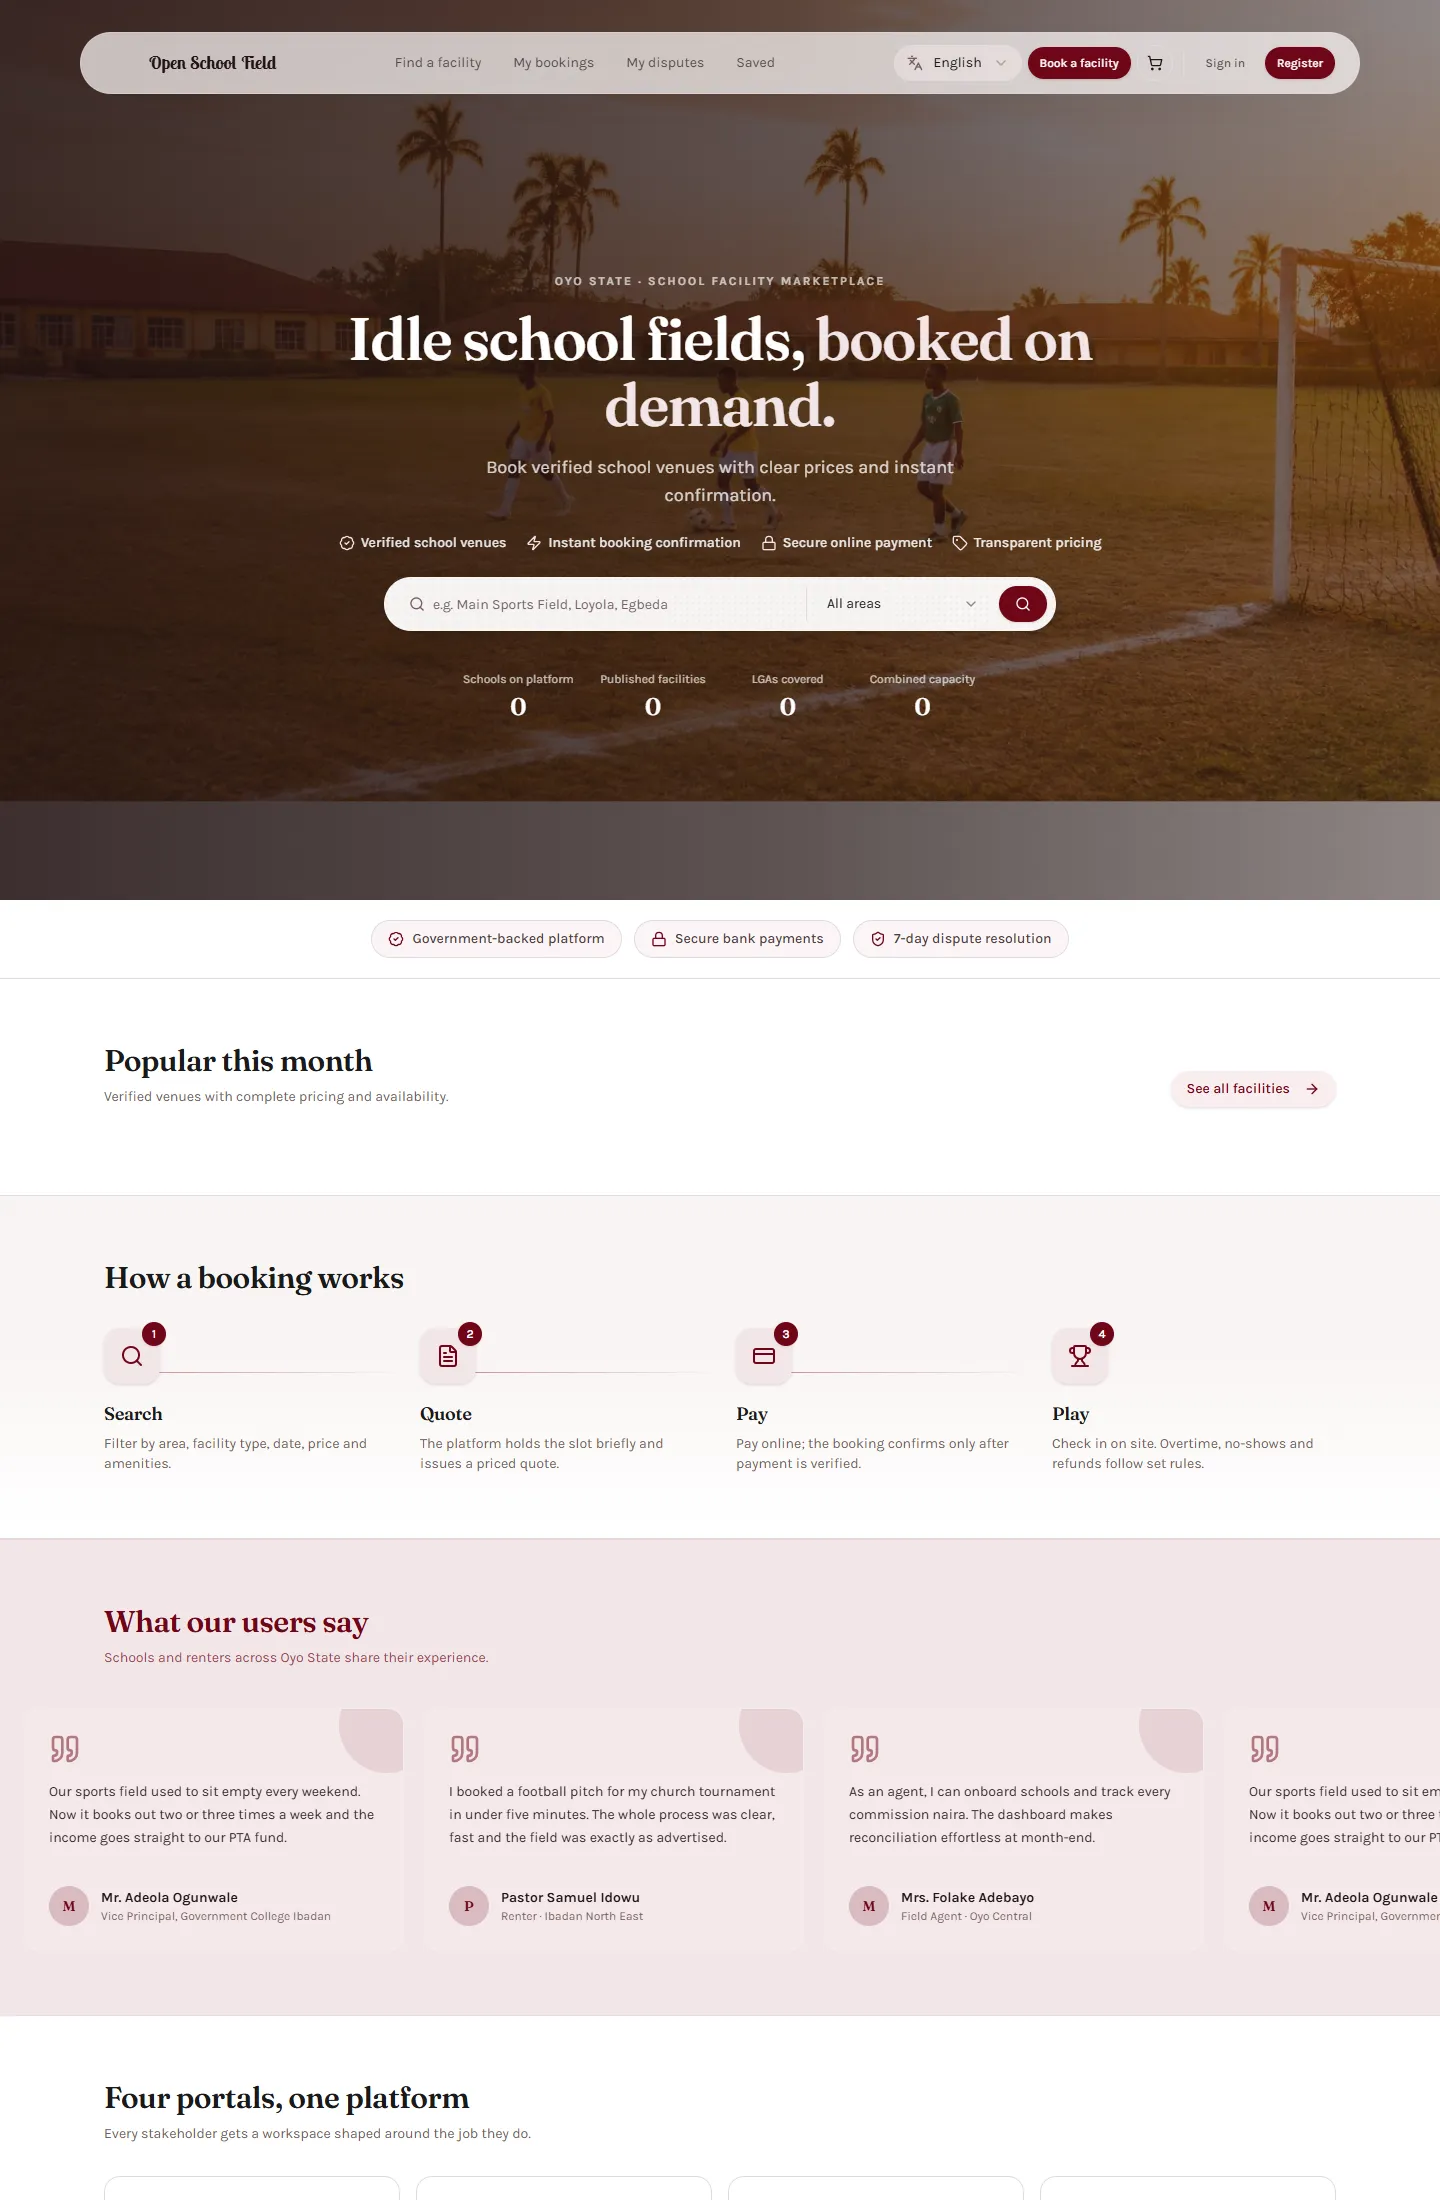
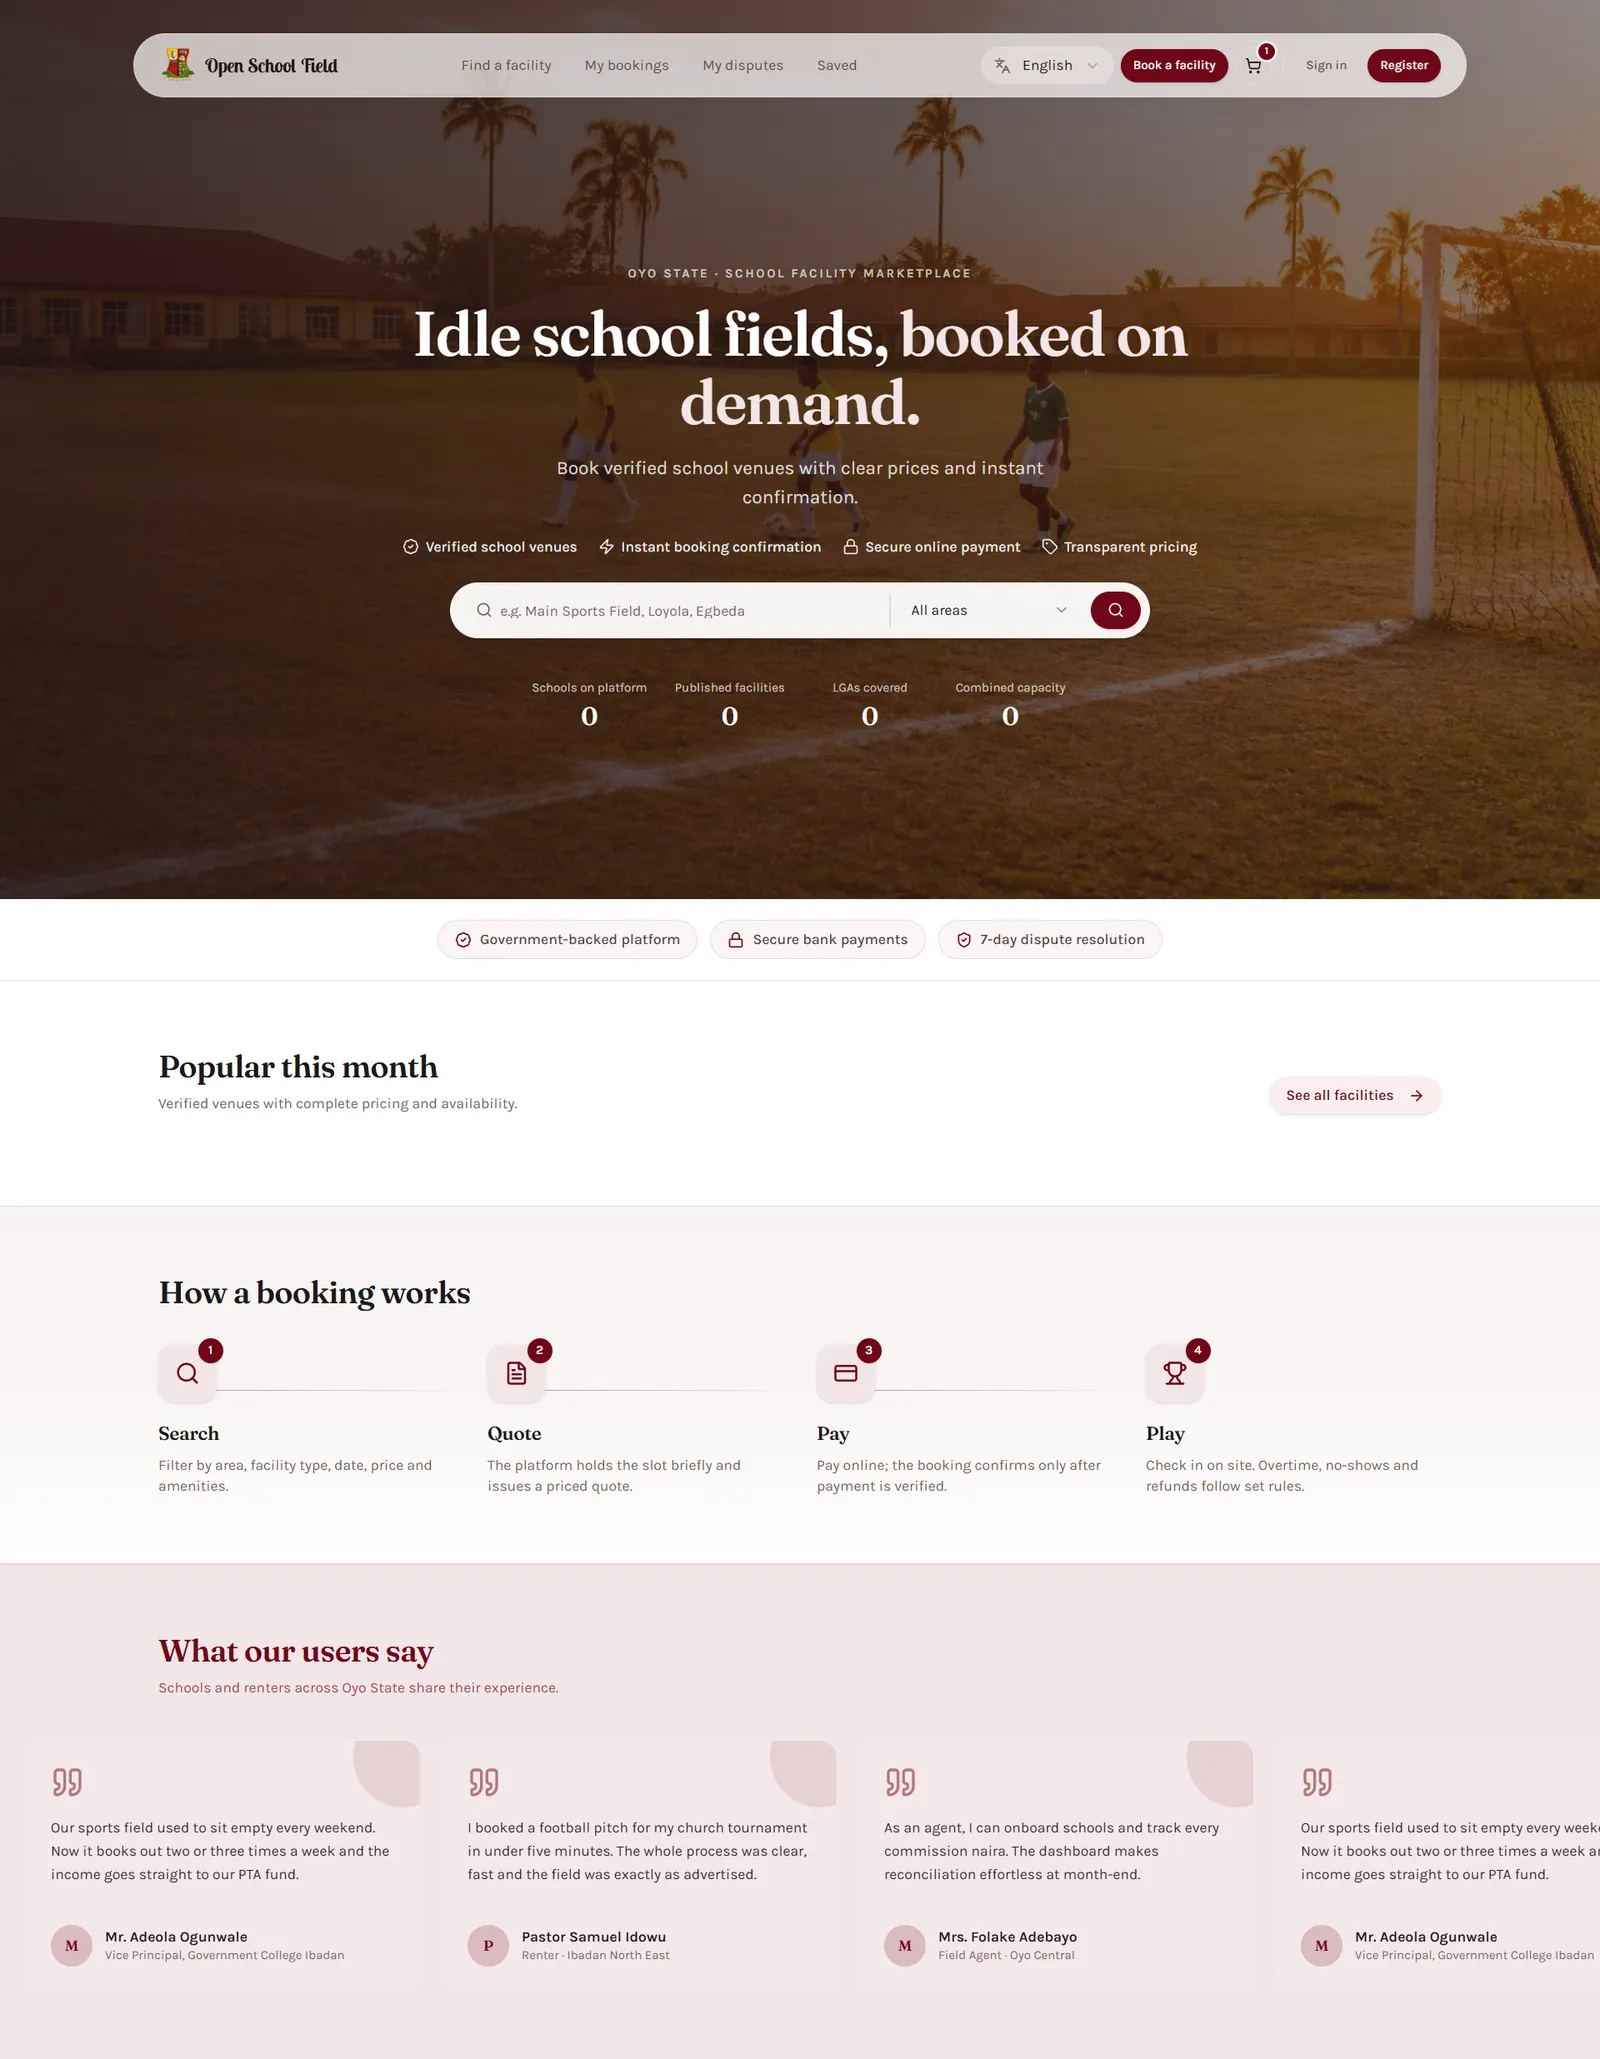
Smaller hero buttons and a new long Open School Field screenshot

diff --git a/src/styles.css b/src/styles.css
@@ -96,9 +96,9 @@
 @theme {
   --font-display: "Archivo Black", ui-sans-serif, system-ui, sans-serif;
   --font-sans:
-    "SF Pro Display Medium", "SF Pro Display Regular", "SF Pro Display",
-    "SF Pro Text", -apple-system, BlinkMacSystemFont, "Segoe UI Variable Display",
-    "Segoe UI", ui-sans-serif, system-ui, sans-serif;
+    "SF Pro Display Medium", "SF Pro Display Regular", "SF Pro Display", "SF Pro Text",
+    -apple-system, BlinkMacSystemFont, "Segoe UI Variable Display", "Segoe UI", ui-sans-serif,
+    system-ui, sans-serif;
   --font-mono: "JetBrains Mono", ui-monospace, monospace;
   --color-cream: #ffffff;
   --color-charcoal: oklch(0.27 0.008 60);
@@ -108,9 +108,9 @@
 
 :root {
   --sam-font-sans:
-    "SF Pro Display Medium", "SF Pro Display Regular", "SF Pro Display",
-    "SF Pro Text", -apple-system, BlinkMacSystemFont, "Segoe UI Variable Display",
-    "Segoe UI", ui-sans-serif, system-ui, sans-serif;
+    "SF Pro Display Medium", "SF Pro Display Regular", "SF Pro Display", "SF Pro Text",
+    -apple-system, BlinkMacSystemFont, "Segoe UI Variable Display", "Segoe UI", ui-sans-serif,
+    system-ui, sans-serif;
   --radius: 0.625rem;
   --background: #ffffff;
 
@@ -234,6 +234,14 @@
     color 180ms ease;
 }
 
+/* The hero's two buttons are a size smaller than the pill default. */
+.sam-action-row .sam-pill {
+  min-height: 36px;
+  gap: 0.4rem;
+  padding: 0.4rem 0.85rem;
+  font-size: 0.82rem;
+}
+
 .sam-pill:hover {
   transform: translateY(-1px);
 }
@@ -313,9 +321,9 @@
   background: white;
 }
 
-
 @keyframes sam-status-breathe {
-  0%, 100% {
+  0%,
+  100% {
     opacity: 0.28;
     transform: scale(1);
   }
@@ -408,7 +416,12 @@
   }
 
   /* Keep the two buttons side by side on phones (hero and the bottom call to action). */
-  .sam-action-row .sam-pill,
+  .sam-action-row .sam-pill {
+    min-height: 34px;
+    padding: 0.4rem 0.75rem;
+    font-size: 0.8rem;
+  }
+
   .sam-cta-row .sam-pill {
     gap: 0.4rem;
     padding: 0.5rem 0.85rem;
@@ -599,7 +612,6 @@
   }
 }
 
-
 @media (min-width: 1024px) and (max-height: 820px) {
   .sam-identity-panel {
     /* The panel never scrolls on its own: the wheel over it scrolls the page, as on samwrks.in. */
@@ -678,13 +690,7 @@
 .showcase-carousel {
   --showcase-gap: 1.25rem;
   overflow: hidden;
-  -webkit-mask-image: linear-gradient(
-    90deg,
-    transparent,
-    black 7%,
-    black 93%,
-    transparent
-  );
+  -webkit-mask-image: linear-gradient(90deg, transparent, black 7%, black 93%, transparent);
   mask-image: linear-gradient(90deg, transparent, black 7%, black 93%, transparent);
 }
 
@@ -733,7 +739,6 @@
   }
 }
 
-
 @media (min-width: 1024px) {
   .showcase-carousel__card {
     width: 46vw;
@@ -755,13 +760,7 @@
 .case-study-carousel {
   --gallery-gap: 1.25rem;
   overflow: hidden;
-  -webkit-mask-image: linear-gradient(
-    90deg,
-    transparent,
-    black 8%,
-    black 92%,
-    transparent
-  );
+  -webkit-mask-image: linear-gradient(90deg, transparent, black 8%, black 92%, transparent);
   mask-image: linear-gradient(90deg, transparent, black 8%, black 92%, transparent);
 }
 
@@ -809,7 +808,6 @@
   }
 }
 
-
 @media (min-width: 1024px) {
   .case-study-carousel__image {
     width: 52vw;
@@ -834,12 +832,6 @@
     padding-bottom: 1.25rem;
   }
 }
-
-
-
-
-
-
 
 /* Keyboard focus: visible ring on everything interactive. */
 a:focus-visible,

diff --git a/src/components/sections/ReferencePortfolioHome.tsx b/src/components/sections/ReferencePortfolioHome.tsx
@@ -268,7 +268,7 @@ function IdentityPanel() {
               rel="noreferrer"
               className="sam-pill sam-tilt-button bg-[#1a1a1a] text-white hover:bg-black"
             >
-              <Calendar className="h-[18px] w-[18px]" aria-hidden />
+              <Calendar className="h-[15px] w-[15px]" aria-hidden />
               Book a free call
             </a>
             <a
@@ -277,7 +277,7 @@ function IdentityPanel() {
               rel="noreferrer"
               className="sam-pill sam-tilt-button bg-[#ededed] text-[#1a1a1a] hover:bg-white"
             >
-              <MessageCircle className="h-[18px] w-[18px]" aria-hidden />
+              <MessageCircle className="h-[15px] w-[15px]" aria-hidden />
               Chat on WhatsApp
             </a>
           </div>

diff --git a/src/data/image-sizes.generated.ts b/src/data/image-sizes.generated.ts
@@ -39,7 +39,7 @@ export const imageSizes: Record<string, { width: number; height: number }> = {
   "product_showcase/_tall/infinitative.webp": { width: 1440, height: 2200 },
   "product_showcase/_tall/learncity.webp": { width: 1440, height: 2200 },
   "product_showcase/_tall/nachie-maridadi.webp": { width: 1440, height: 2200 },
-  "product_showcase/_tall/open-school-field.webp": { width: 1440, height: 2200 },
+  "product_showcase/_tall/open-school-field.webp": { width: 1600, height: 2059 },
   "product_showcase/_tall/oyobooking.webp": { width: 1600, height: 2444 },
   "product_showcase/_tall/payflow.webp": { width: 1440, height: 2200 },
   "product_showcase/_tall/samsoni.webp": { width: 1600, height: 2444 },

diff --git a/src/data/portfolio.ts b/src/data/portfolio.ts
@@ -359,10 +359,7 @@ const gloriaHome = screenAt(gloriaScreens, 0);
 
 // The Websites tab normally shows each project's tall home-page capture. A project listed here
 // shows this picture there instead (the tall capture is still used on its other pages).
-export const websitePictureOverrides: Record<string, string> = {
-  // Open School Field: its original landing-page screenshot.
-  "open-school-field": osf261,
-};
+export const websitePictureOverrides: Record<string, string> = {};
 
 export const profile = {
   name: "Oluwatomisin Isogun",

diff --git a/src/data/portfolio.test.ts b/src/data/portfolio.test.ts
@@ -123,8 +123,7 @@ describe("portfolio data", () => {
     }
   });
 
-  it("shows Open School Field's landing screenshot on the Websites tab", () => {
-    expect(websitePictureOverrides["open-school-field"]).toContain("Screenshot%20(261)");
+  it("points every Websites-tab picture override at a real project", () => {
     for (const slug of Object.keys(websitePictureOverrides)) {
       expect(
         featuredProjects.some((project) => project.slug === slug),
